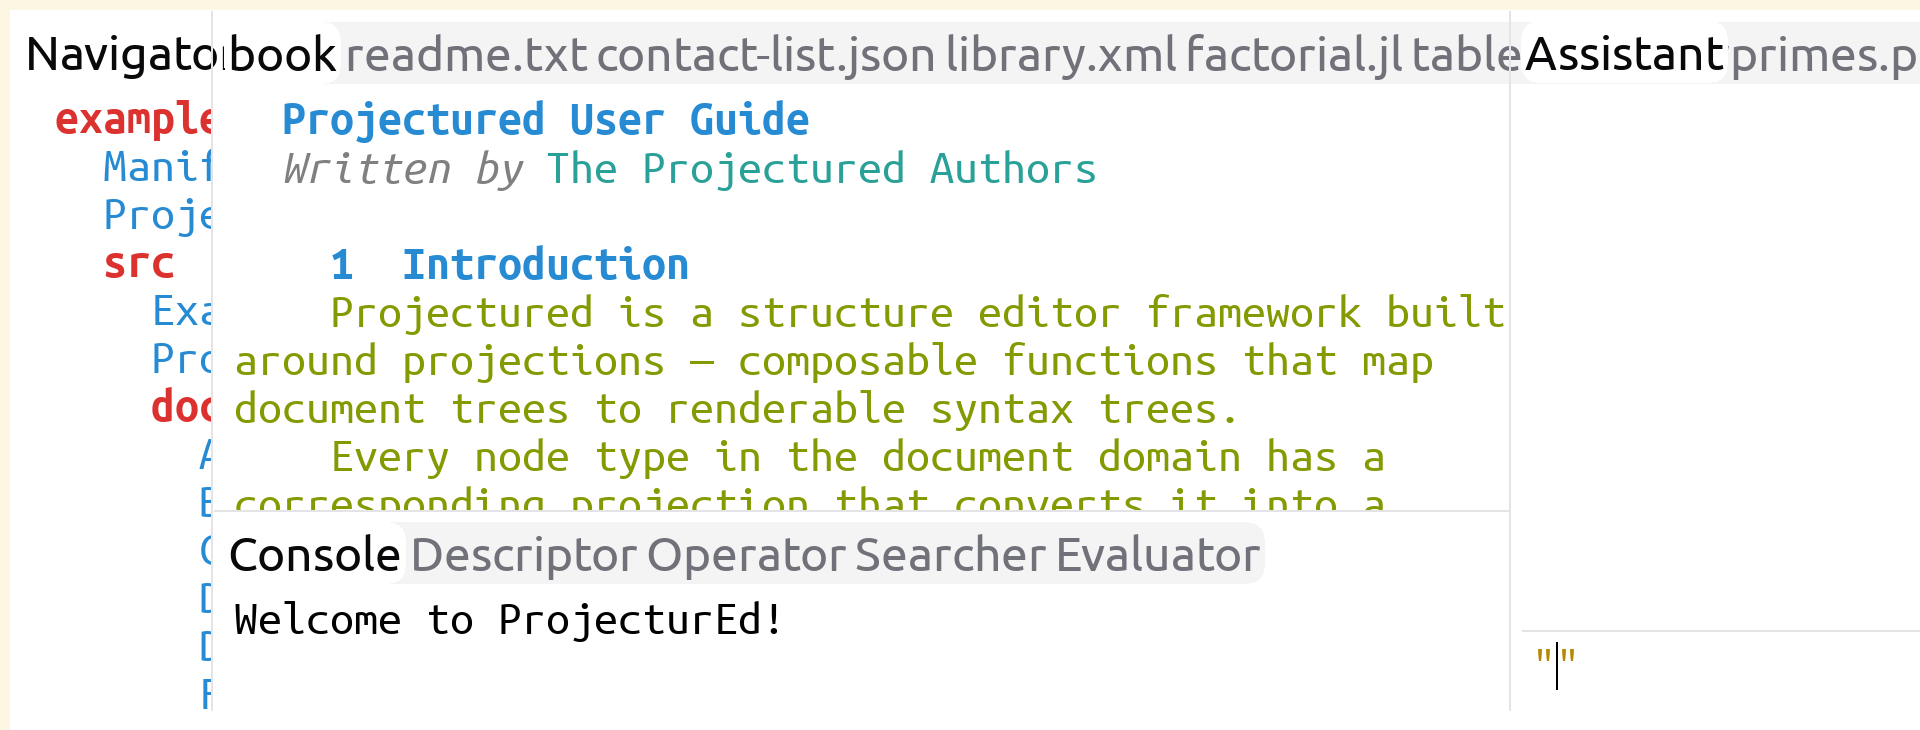
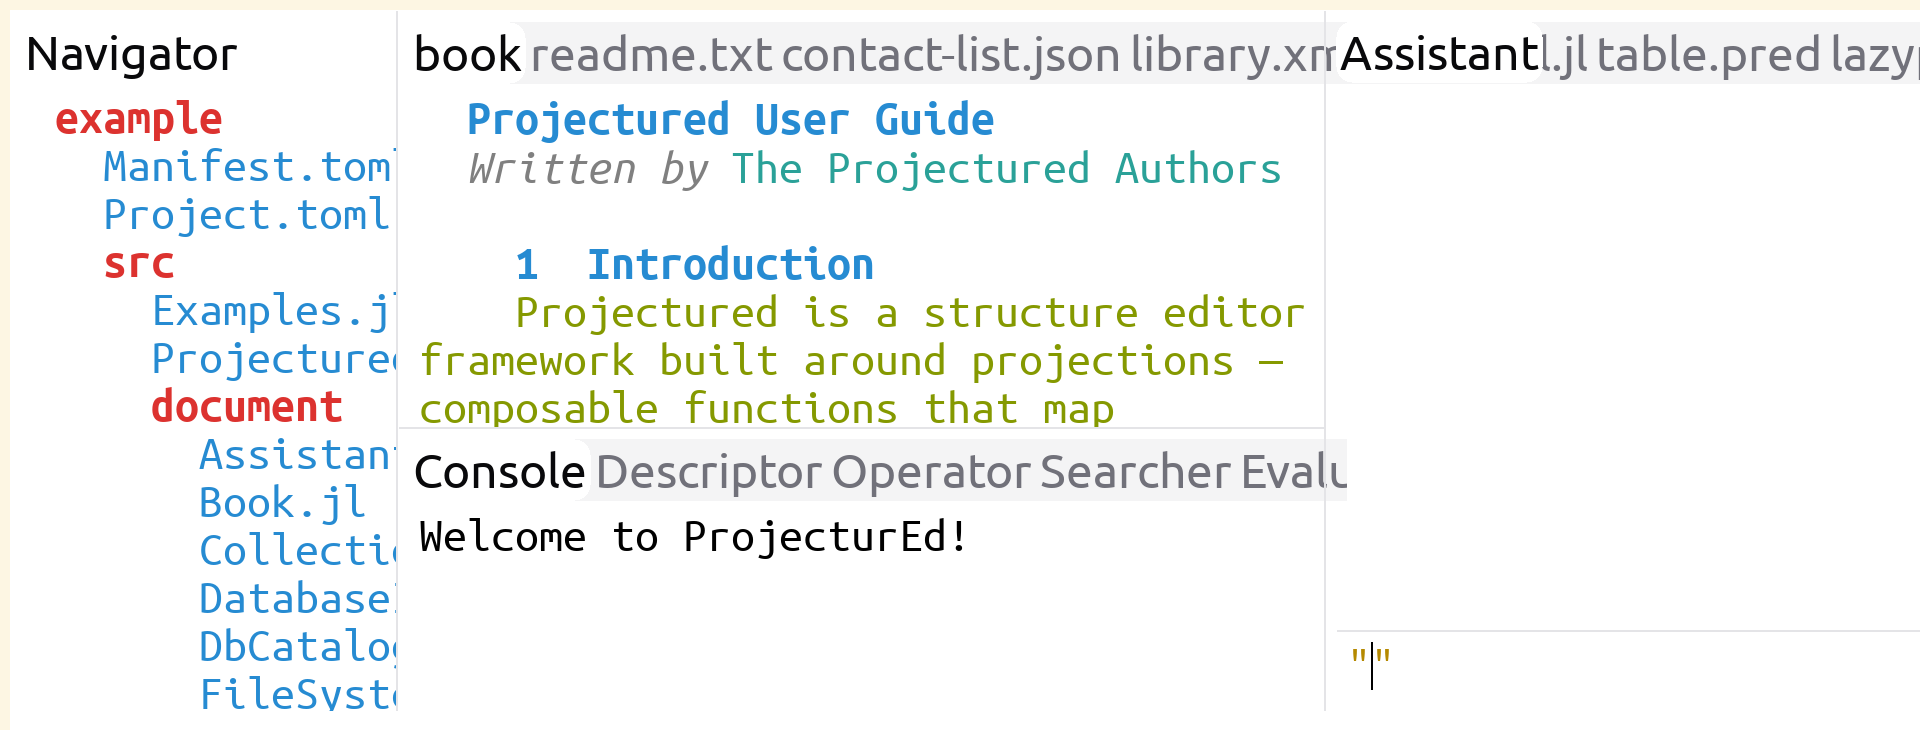
Workbench: size panes by min+weight constraints, drop fixed sizes
Per the design goal, with layout constraints in place the workbench panes no
longer carry fixed sizes. Every WidgetScrollPane loses its size=, and each
split child now states only a minimum extent (with preferred=min so it sits at
its floor) plus a weight share of the leftover space:

- main areas (editor, conversation, center column): weight 1.0
- side panels (navigator, control, info): weight 0.2 — they grow a bit with
  the window but always less than the main area
- assistant input: min 90, no weight (stays put while the conversation grows)

This drops the pinned min=max columns and all per-pane fallback viewport sizes.
The workbench layout changes (side columns grow), so workbench.png is
re-baselined.

The standalone assistant example has no window to fill, so its display size is
now a presentation choice on the Example (render_width/render_height) rather
than a fixed size baked into the projection; assistant.png re-baselined to match
its prior presentation.

diff --git a/plan/widget-fixed-sizes-positions-report.md b/plan/widget-fixed-sizes-positions-report.md
@@ -489,21 +489,30 @@ duplicate-constant problem from §7E).
 > reactive-thunk test, and an end-to-end keypress roundtrip writing back to the
 > bound field cell.
 >
-> **Step 4 (§7D) — done (`9242511`), value-preserving.** The scattered fixed
-> sizes were hoisted into named, documented layout tokens rather than removed:
-> `WorkbenchToWidget` gained a "workbench layout tokens" block (pinned
-> nav/control/info bands, shell window fallback, assistant input band, per-pane
-> fallback viewport sizes), and `WidgetToGraphics` named its scroll/scrollbar/
-> split-slot fallbacks (killing the §7E printer↔reader duplication of the scroll
-> bar track size). Investigation showed these per-pane sizes are **genuine
-> standalone-render fallbacks** (the navigator/assistant baselines render a pane
-> in isolation), not dead code — inside the full workbench each pane is already
-> sized by its split/tab parent's `available_*` allocation. So "fold into the
-> allocation path" here means *centralize + name* the fallbacks (and let a future
-> workbench style override them); fully eliminating them would require seeding
-> `available_*` in the standalone examples and re-baselining their images, a
-> deliberate visual change deferred until wanted. Verified pixel-stable via the
-> workbench/navigator/assistant/widget printer tests.
+> **Step 4 (§7D) — done in two parts.**
+>
+> *Part 1 (`9242511`), value-preserving:* `WidgetToGraphics` named its
+> scroll/scrollbar/split-slot fallbacks (killing the §7E printer↔reader
+> duplication of the scroll bar track size), and the scattered `WorkbenchToWidget`
+> numbers were first hoisted into a named-token block.
+>
+> *Part 2 — the real fix:* per the directive "once we have layout constraints,
+> fixed sizes are useless; each workbench pane should specify only a minimum and
+> maybe a weight." Every workbench `WidgetScrollPane` **lost its fixed `size=`**
+> entirely. Each split child now states only a `min` (+ `preferred = min` so it
+> sits at its floor) and a `weight`: main areas (editor, conversation, center
+> column) take the large weight, the surrounding side panels (nav, control, info)
+> a small one, so the side panels grow *a bit* with the window but always less
+> than the main area. The pinned `min=max` columns and the per-pane fallback
+> viewport sizes are **gone**.
+>
+> This changed the workbench layout (side columns now grow), so `workbench.png`
+> was re-baselined. The standalone `assistant` example has no window to fill, so
+> it would collapse to its (near-empty) content; the display size for *that*
+> screenshot now lives on the `Example` (`render_width`/`render_height`) — a
+> presentation choice — not as a fixed size in the projection. `assistant.png`
+> re-baselined to match its prior presentation. Verified: workbench / assistant /
+> navigator / widget printer tests pass.
 
 ### 9.0 Decisions taken (2026-06-14)
 
